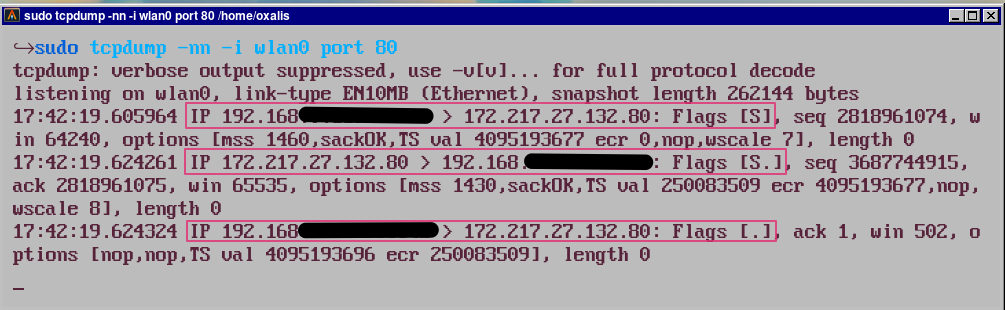
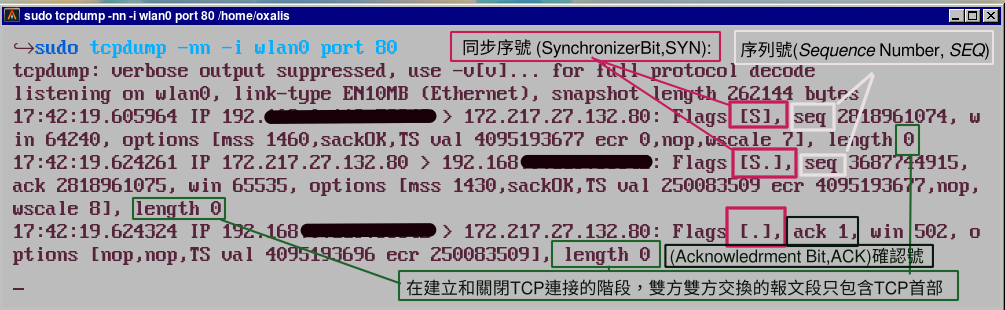
Description story

diff --git a/internet/README.md b/internet/README.md
@@ -166,6 +166,12 @@
 
    ![image](tcp3.png)
 
+   ![image](333.png)
+
+   ![image](tcp3-1.png)
+   
+    
+
  ## SOCKET
  
  > socket就是一個api提供一個通訊的端點。
